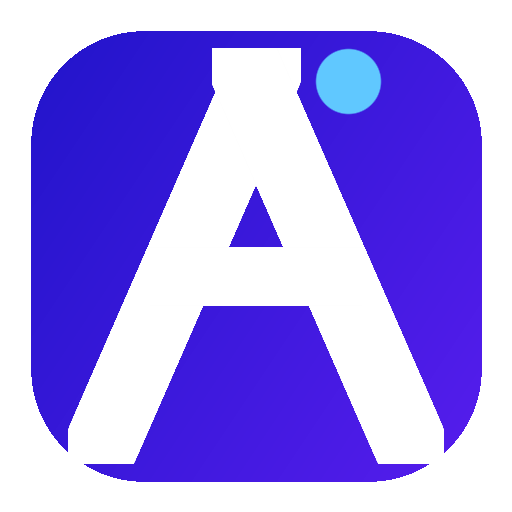
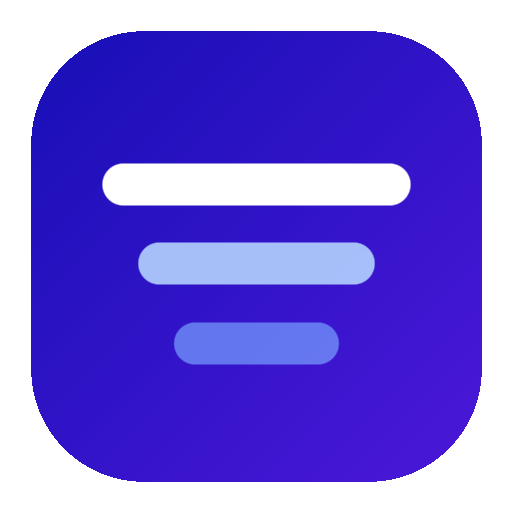
Add files via upload

Changed region(s): [[0.125, 0.0938, 0.875, 0.9062]]

diff --git a/app/page.js b/app/page.js
@@ -533,7 +533,7 @@ export default function Page() {
         <div style={{ display:'flex',alignItems:'center',justifyContent:'space-between',padding:'4px 9px 18px' }}>
           <div style={{ display:'flex',alignItems:'center',gap:9 }}>
             <div style={{ width:32,height:32,background:`linear-gradient(135deg,${activeColor},${activeColor}88)`,borderRadius:9,display:'flex',alignItems:'center',justifyContent:'center',flexShrink:0,transition:'background 0.5s ease' }}>
-              <svg width="16" height="16" viewBox="0 0 24 24" fill="none" strokeLinecap="round" strokeLinejoin="round"><path d="M12 4L4 20M12 4L20 20M7 14h10" stroke="#fff" strokeWidth="2.4"/><circle cx="19" cy="5" r="2.5" fill="#60c8ff"/></svg>
+              <svg width="16" height="16" viewBox="0 0 24 24" fill="none"><rect x="3" y="8" width="18" height="3.5" rx="1.75" fill="white"/><rect x="5" y="13.5" width="14" height="3.5" rx="1.75" fill="white" opacity="0.7"/><rect x="8" y="19" width="8" height="3.5" rx="1.75" fill="white" opacity="0.4"/></svg>
             </div>
             <span style={{ fontFamily:'Syne,sans-serif',fontSize:19,fontWeight:800,letterSpacing:'-0.4px',color:'var(--text)' }}>Ax<span style={{ color: activeColor === '#e4e8f5' ? (darkMode ? '#e4e8f5' : '#5b8dee') : activeColor,transition:'color 0.5s ease' }}>on</span></span>
           </div>
@@ -612,7 +612,7 @@ export default function Page() {
           {msgs.length===0 && !busy && (
             <div style={{ flex:1,display:'flex',flexDirection:'column',alignItems:'center',justifyContent:'center',textAlign:'center',gap:16,padding:'20px 10px',animation:'fadeUp .5s ease both' }}>
               <div style={{ width:64,height:64,background:`linear-gradient(135deg,${activeColor},${activeColor}88)`,borderRadius:18,display:'flex',alignItems:'center',justifyContent:'center',boxShadow:`0 0 36px ${activeColor}40`,transition:'all 0.5s ease' }}>
-                <svg width="30" height="30" viewBox="0 0 24 24" fill="none" strokeLinecap="round" strokeLinejoin="round"><path d="M12 4L4 20M12 4L20 20M7 14h10" stroke="#fff" strokeWidth="2.4"/><circle cx="19" cy="5" r="2.5" fill="#60c8ff"/></svg>
+                <svg width="30" height="30" viewBox="0 0 24 24" fill="none"><rect x="3" y="8" width="18" height="3.5" rx="1.75" fill="white"/><rect x="5" y="13.5" width="14" height="3.5" rx="1.75" fill="white" opacity="0.7"/><rect x="8" y="19" width="8" height="3.5" rx="1.75" fill="white" opacity="0.4"/></svg>
               </div>
               <div>
                 <h1 style={{ fontFamily:'Syne,sans-serif',fontSize:26,fontWeight:800,letterSpacing:'-0.5px',marginBottom:8,color:'var(--text)' }}>
